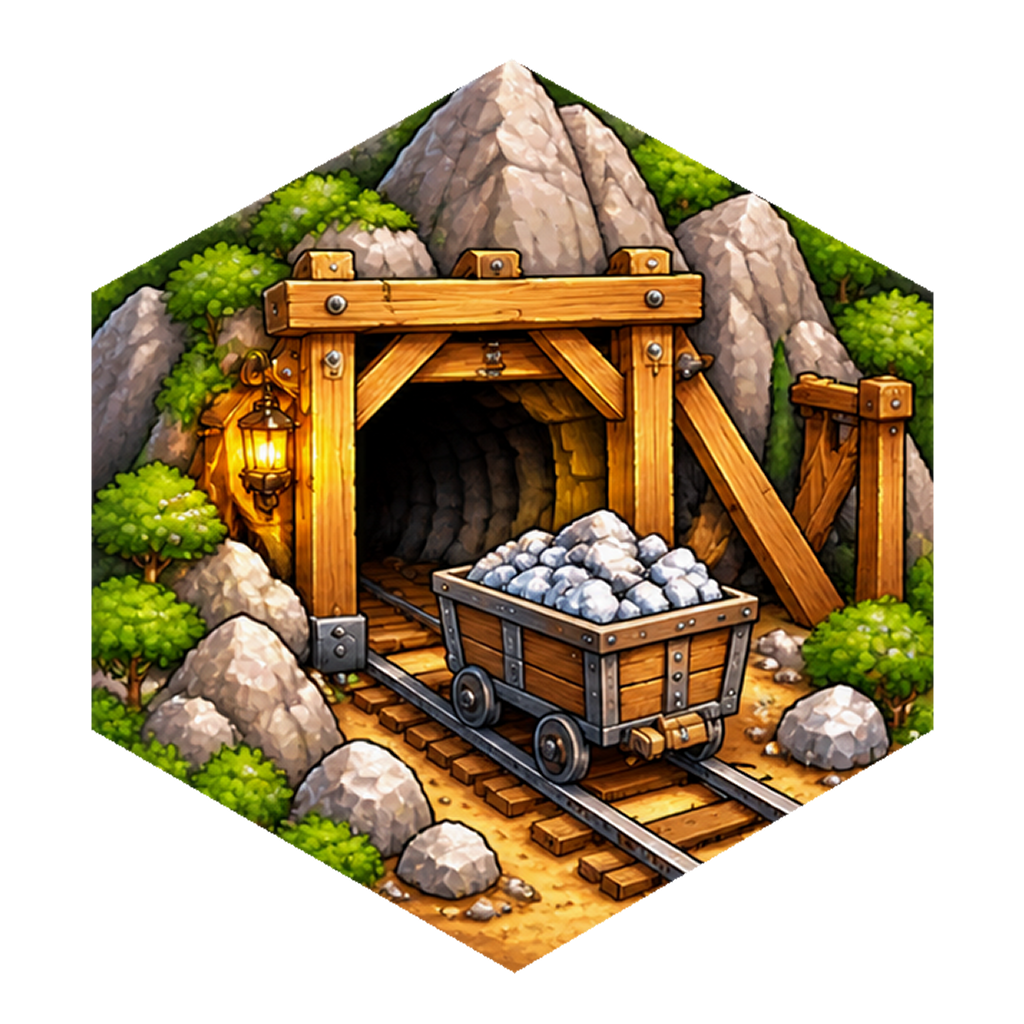
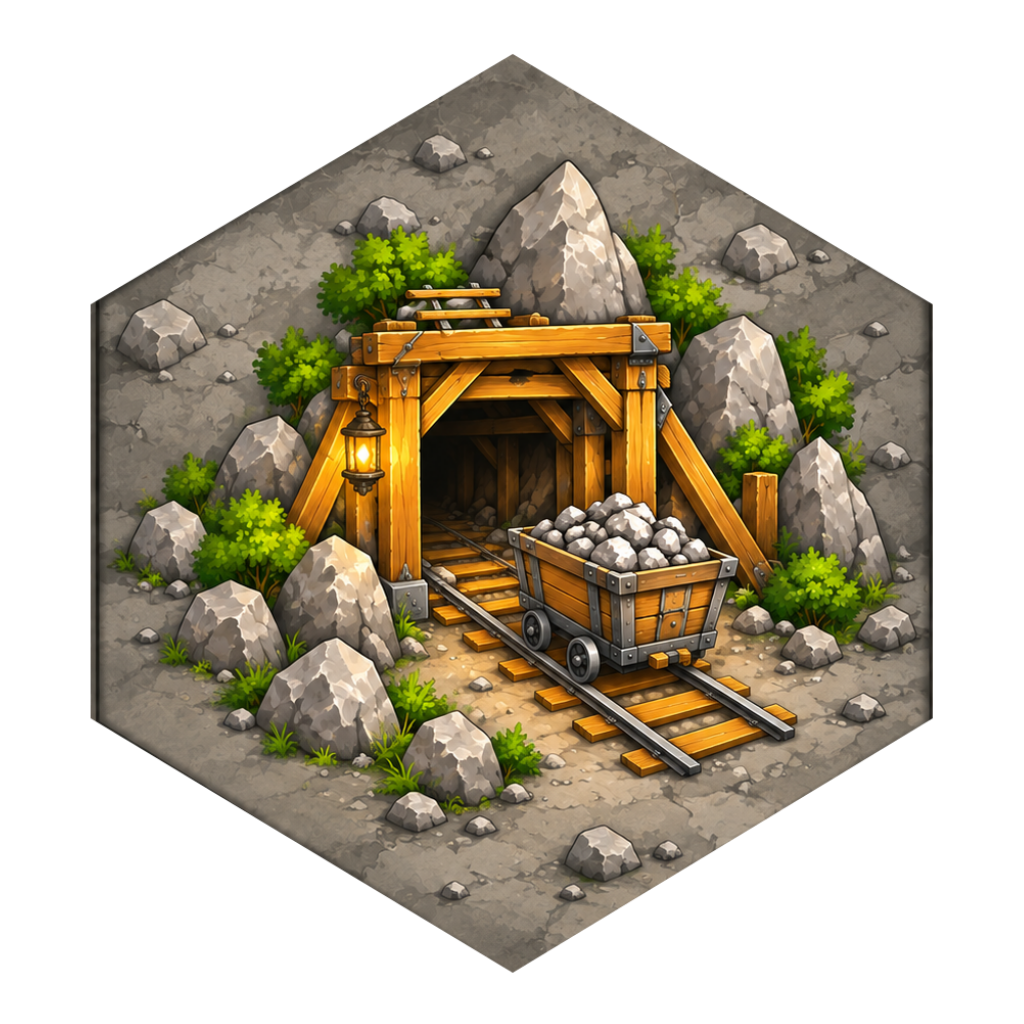
[skip render] [no-deploy] Back up approved castle and mine artwork

diff --git a/docs/CASTLE_MINE_IMPORT_NOTES.md b/docs/CASTLE_MINE_IMPORT_NOTES.md
@@ -1,0 +1,30 @@
+# 성·광산 GitHub 백업 대상 (2026-10-25)
+
+- 사용자 승인으로 로컬 수정본4PNG+manifest를 main에 백업한다. 그림/정렬/게임 코드는 다시 만들거나 수정하지 않는다.
+- 새 환경에서 재현할 수 있도록 승인 원본2개·마스크2개·입력 manifest와 import 스크립트도 포함한다. 교체 전 이미지 세트는 로컬 백업과 이전 Git 커밋 e2d5604의 5개 경로에 보존되어 있어 중복 PNG를 추가하지 않는다.
+- 이번 검사: import --check의 모든 바이트 일치/RGB 차이0, Node 문법 검사, 일러스트6/아이콘2 경고0 및 배포 PNG80 통과. 전체 게임 회귀·빌드는 이번 백업에서 다시 실행하지 않았으며 동일 자산/렌더러의 이전 검증은 아래 기록을 참고한다.
+- Render 서비스 현재 Auto-Deploy 설정은 직접 조회할 인증이 없다. [skip render] [no-deploy] 커밋으로 자동 배포를 제외한다. 배포·재시작·Computer Use·환경변수/Redis 변경은 하지 않는다.
+- 체크포인트: .local-data/castle-mine-push-hzSSUO/. 커밋/Push 결과는 Git 이력과 최종 보고에서 확인한다.
+
+--- 최초 로컬 교체 기록 보존 ---
+
+# 승인 성·광산 이미지 교체 (2026-10-24, 로컬 검증)
+
+- 입력: 사용자가 제공한 `castle-new.png`, `mine-new.png`(각 1254×1254 RGB). 체크무늬는 실제 배경 픽셀이었고 알파 채널은 없었다.
+- 새 원본 보존: `asset-inbox/castle-mine-approved/originals/`. 입력 원본을 다시 그리지 않는다. 배경 분리 도구 결과에서는 알파 마스크만 사용하고, 최종 RGB는 사용자 입력 PNG에서 직접 복사한다.
+- 교체 전 백업: `asset-inbox/castle-mine-approved/backups/before-2026-10-24/` 아래의 기존 `public/tiles/{castle,mine}.png`, `public/tiles/illustrations/{castle,mine}.png`, `manifest.json` 5개 파일. 최초 파일을 덮어쓰지 않는다.
+- 교체 경로: `public/tiles/{castle,mine}.png`는 1254×1254 RGBA 투명 원본 파생, **실제 렌더링**은 `public/tiles/illustrations/{castle,mine}.png`의 1024×1024 RGBA 파생이다. 기존 URL과 데이터 타입을 유지한다.
+- 새 원본의 테두리 안쪽을 각각 다시 측정했다. 새 그림에 옛 마스크를 적용하지 않는다. 내부의 성·광산·깃발·바위·수레는 보존하고, 공통 SVG 프레임과 겹치는 원본 테두리는 게임용 파생에서만 분리한다. 원본색에서 공통 프레임 팔레트를 추출한다.
+- 기존 등방성 지지함수 fitting, 1024 캔버스와 inset 2.2를 그대로 사용한다. 런타임 scale/translate 예외, viewBox/영지 좌표/클릭 영역/엔진/AI/저장/온라인 코드 변경은 없다.
+- `TileArt`를 공유하는 공용 번호/검은 공급처, 개인 보관함, 영지, 미리보기, 온라인 및 설명 UI가 같은 파생을 사용한다. `illustrations/manifest.json`의 해시를 갱신해 기존 캐시 쿼리도 갱신한다. 오래된 `public/tiles/estate/` 파일은 현재 참조되지 않아 유지한다.
+- 재생성: `node scripts/import-castle-mine.mjs`. 읽기 전용 검증: `node scripts/import-castle-mine.mjs --check`. 승인 원본/마스크 해시가 달라지거나 외부 배경 제거가 내부 그림에 들어오면 저장 전에 중단한다. 기존 `extract-tile-illustrations.py`는 옛 원본 해시를 요구하므로 이번 교체를 재생성하는 용도로 사용하지 않는다.
+
+## 검증
+
+- 변경 전과 변경 후 `scripts/validate-tile-assets.py`: 전체 일러스트6/자원2, 경고0. `scripts/validate-deployment-assets.py`: 62 PNG 통과.
+- 두 원본 파생의 모든 보이는 픽셀 RGB와 사용자 입력 RGB 차이0. 게임용 두 파생은 같은 1024 캔버스와 안쪽 hex 경계에 정렬한다. 검증 보고/실제 화면은 `.local-data/castle-mine-import/`에 보관한다.
+- 이번 실행: 코어486/486, 보드33/33, TypeScript·전체 ESLint·프로덕션 빌드 통과. 관련 PC/Chrome터치 브라우저33통과·기기별 비대상5제외, 큰 화면의 깨끗한 캡처1통과(합계34통과). 기존 테스트 삭제/검증 완화 없음.
+- PC/모바일 실제 공용 보드·보관함·영지·설명/온라인 공통 UI에서 PNG 로딩·새 해시·fallback·클릭/저장 상태 불변을 확인했다. 100/160/200% 공유 변의 배경 노출0픽셀, 안쪽 hex 경계 초과0. 안티앨리어싱은 기존1px 허용 기준을 유지한다.
+- 직접 확인한 화면: `.local-data/castle-mine-import/screens/before-after-storage.png`, `game-common-after.png`, `game-estate-after-{100,160,200}.png`. 전체 보드 캡처만 높이2400px를 사용해 기존 sticky 행동 바가 사진의 타일을 가리지 않도록 했고 UI는 숨기거나 변경하지 않았다.
+- 보존 확인: 백업 PNG4개의 SHA가 변경 전 HEAD와 일치, 백업 manifest는 Git CRLF 변환을 제외한 내용 동일. 첨부 원본2개·다른 타일 메타데이터 및 기존 미커밋 파일 보존. 실제 Android/iPhone 기기 검증은 하지 않았다.
+- 사용자 요청에 따라 이번 변경은 로컬에만 보존한다. GitHub Push·Render 배포·운영 방/Redis/환경변수 변경 없음.

diff --git a/docs/design/tile-asset-standard.md b/docs/design/tile-asset-standard.md
@@ -30,6 +30,8 @@
 
 원본 `public/tiles/*.png`를 덮어쓰지 않는다. `public/tiles/estate/` 및 `normalize-estate-tiles.py`는 과거 자료이며 현재 렌더러에서 읽지 않는다. 새로운 타일에 과거 삼각 분할 워핑을 사용하지 않는다.
 
+2026-10-24 성·광산 교체 예외: 사용자 명시 요청으로 기존 원본/파생/manifest를 `asset-inbox/castle-mine-approved/backups/before-2026-10-24/`에 먼저 보존한 뒤 동일 경로에 새 승인 그림을 연결했다. 첨부 원본과 알파 마스크는 별도 보존하며 `node scripts/import-castle-mine.mjs --check`로 검증한다. 이 두 종류의 재생성은 같은 스크립트의 `--check` 없는 실행을 사용한다. 기존 Python 추출기의 옛 해시/마스크는 새 그림에 적용하지 않는다. 공통 SVG 좌표·안쪽 프레임과 원본 RGB 보존은 유지한다. 자세한 경로/결과는 `../CASTLE_MINE_IMPORT_NOTES.md`.
+
 1. 성/광산/선박/수도원27·28: `scripts/extract-tile-illustrations.py`. 검수된 원본 해시·안쪽 테두리 contour와 보존 마스크를 적용한다. 기존 파생 5개는 이번에 재작성하지 않았다. 같은 알고리즘으로 알파 지지함수를 측정하여 1024 정사각 캔버스 안쪽 육각형에 등방성으로 맞춘다. 배율·중심은 빌드 시 측정 결과이며 렌더링 보정값이 아니다.
 2. 여관: `scripts/extract-inn-illustration.py`. 검수한 금색 외곽 테두리 안쪽 contour를 분리하고 같은 등방성 fitting/안쪽 테두리를 사용한다. 여러 색의 내부 패널 구분선은 일러스트의 일부로 보존한다. 팔레트는 실제 원본 금색 테두리의 밝기 분위 RGB다. 원본 변경 시 재검수한다.
 3. 기중기/거위: `scripts/normalize-center-illustrations.py`. 알파 bbox를 trim하고 동일 32px 여백/최대 변 960px로 1024 캔버스 중앙에 비율을 보존하여 넣는다. 렌더링은 모든 중앙 일러스트에 공통 66단위 사각형을 쓴다.

diff --git a/docs/PROGRESS.md b/docs/PROGRESS.md
@@ -1,3 +1,13 @@
+# 성·광산 이미지 GitHub 백업 준비 (2026-10-25)
+
+- 기준 main e2d5604 및 실제 origin/main 일치. 새 성/광산 4PNG+illustrations manifest가 미커밋으로 유지됐으며, 후속 작업 전후 해시가 같은 수정본임을 확인했다.
+- 현재 그림을 재생성/덮어쓰기하지 않고 5개 런타임 파일과 재현 입력5개·import 스크립트·가이드/노트를 선별한다. 혼합 PROGRESS/TODO는 이번 접두사만 스테이징한다. 수도원27/28·다른 승인 원본 폴더·이전 문서 본문은 보존/제외한다.
+- 이번 검사: node --check 및 import-castle-mine.mjs --check 통과(RGB 변경0), 공통 일러스트6/아이콘2 경고0, 배포 PNG80 통과. 검증 보고서는 기존 것을 덮지 않고 .local-data/castle-mine-push-hzSSUO/validation에 생성했다. 원본/파생/마스크의 해시·수정시각을 보존한다.
+- Render staging blueprint는 autoDeployTrigger:off. 실제 서비스의 현재 설정은 인증이 없어 미확인이다. 공식 [skip render] 및 기존 GitHub release의 [no-deploy] 제외 조건을 사용하며 Render 배포/재시작/Computer Use는 실행하지 않는다.
+- 백업 절차: 이번 변경만 main에 일반 Commit/Push 후 원격 SHA 확인. 성공 여부/SHA는 최종 채팅과 Git 기록으로 확인한다. 다음: 사용자 수동 배포 판단 및 남은 별도 TODO. 체크포인트 .local-data/castle-mine-push-hzSSUO/.
+
+--- 이전 진행 본문 보존 ---
+
 # Ver.2 14개 수정 — 구현·검증 완료 / Render 미배포 (2026-10-25)
 
 - 기준 cb28918에서 중단된 구현을 재사용해 1~14를 완료했다. 최초/최종 상태·원인·변경 파일은 docs/qa/ver2-14.md. 14번은 방패 PNG 흰 hover 덮임이며 툴팁 규격/위치는 바꾸지 않았다.

diff --git a/docs/TODO.md b/docs/TODO.md
@@ -1,3 +1,14 @@
+# 성·광산 이미지 백업 체크리스트 (2026-10-25)
+
+- [x] 로컬/원격 main e2d5604·이미지4개/manifest1개·원본/마스크/렌더링 보존 확인
+- [x] 원본 RGB 변경0·이미지 재현·전체 일러스트6/아이콘2·배포 PNG80 검사
+- [x] 재현 입력5개·스크립트·가이드/노트와 이번 문서 접두사만 커밋 대상으로 선별
+- [x] 기존 다른 이미지/문서/원본·작업 상태 보존 및 자동 배포 제외 경로 확인
+- main Commit/일반 Push와 원격 SHA 결과는 최종 보고·Git 기록에서 확인한다.
+- Render 배포/재시작/Computer Use는 하지 않는다. 수동 배포는 사용자 작업이다.
+
+--- 이전 체크리스트 본문 보존 ---
+
 # Ver.2 14개 수정 체크리스트 (2026-10-25)
 
 - [x] 기존 작업 보존 및 14개 최초/최종 상태·관련 파일 표 (docs/qa/ver2-14.md)
